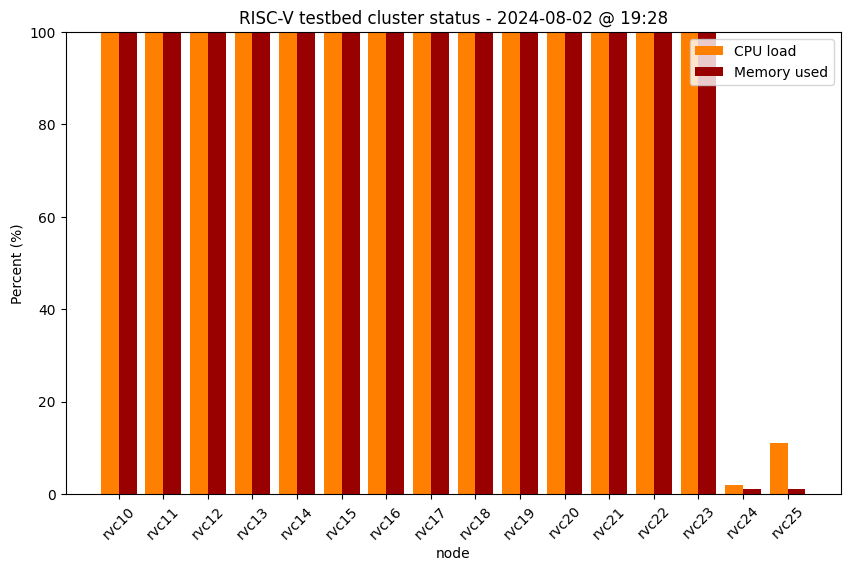
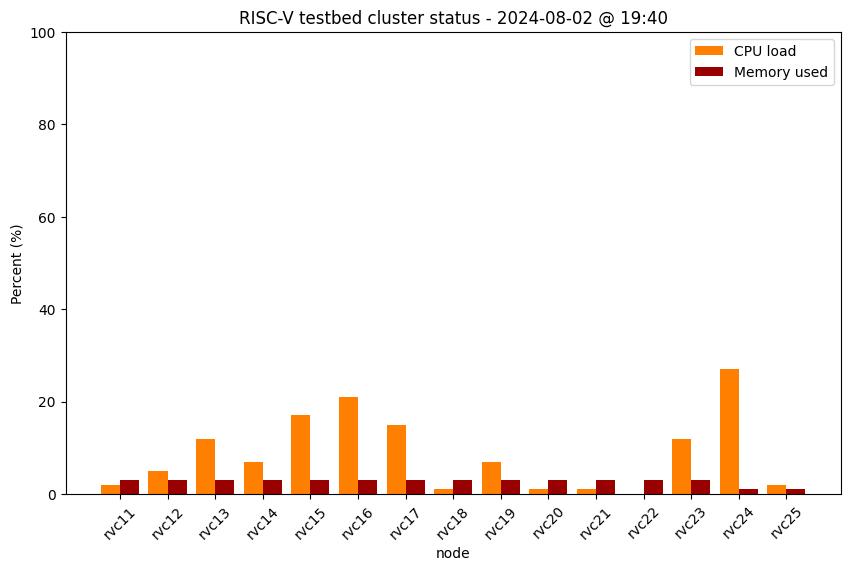
Update cluster status

diff --git a/status.md b/status.md
@@ -22,7 +22,7 @@ permalink: /status/
 | StarFive VisionFive V1 #1 | rvc07 | 2 | 8GB | <img src="/images/off.png" alt="red light" width="10"/> down |
 | StarFive VisionFive V1 #2 | rvc08 | 2 | 8GB | <img src="/images/off.png" alt="red light" width="10"/> down |
 | StarFive VisionFive V1 #3 | rvc09 | 2 | 8GB | <img src="/images/amber.png" alt="amber light" width="10"/> offline |
-| HiFive Unmatched  | rvc10 | 4 | 16GB | <img src="/images/on.png" alt="green light" width="10"/> up |
+| HiFive Unmatched  | rvc10 | 4 | 16GB | <img src="/images/off.png" alt="red light" width="10"/> down |
 | StarFive VisionFive V2 #1 | rvc11 | 4 | 8GB | <img src="/images/on.png" alt="green light" width="10"/> up |
 | StarFive VisionFive V2 #2 | rvc12 | 4 | 8GB | <img src="/images/on.png" alt="green light" width="10"/> up |
 | StarFive VisionFive V2 #3 | rvc13 | 4 | 8GB | <img src="/images/on.png" alt="green light" width="10"/> up |
